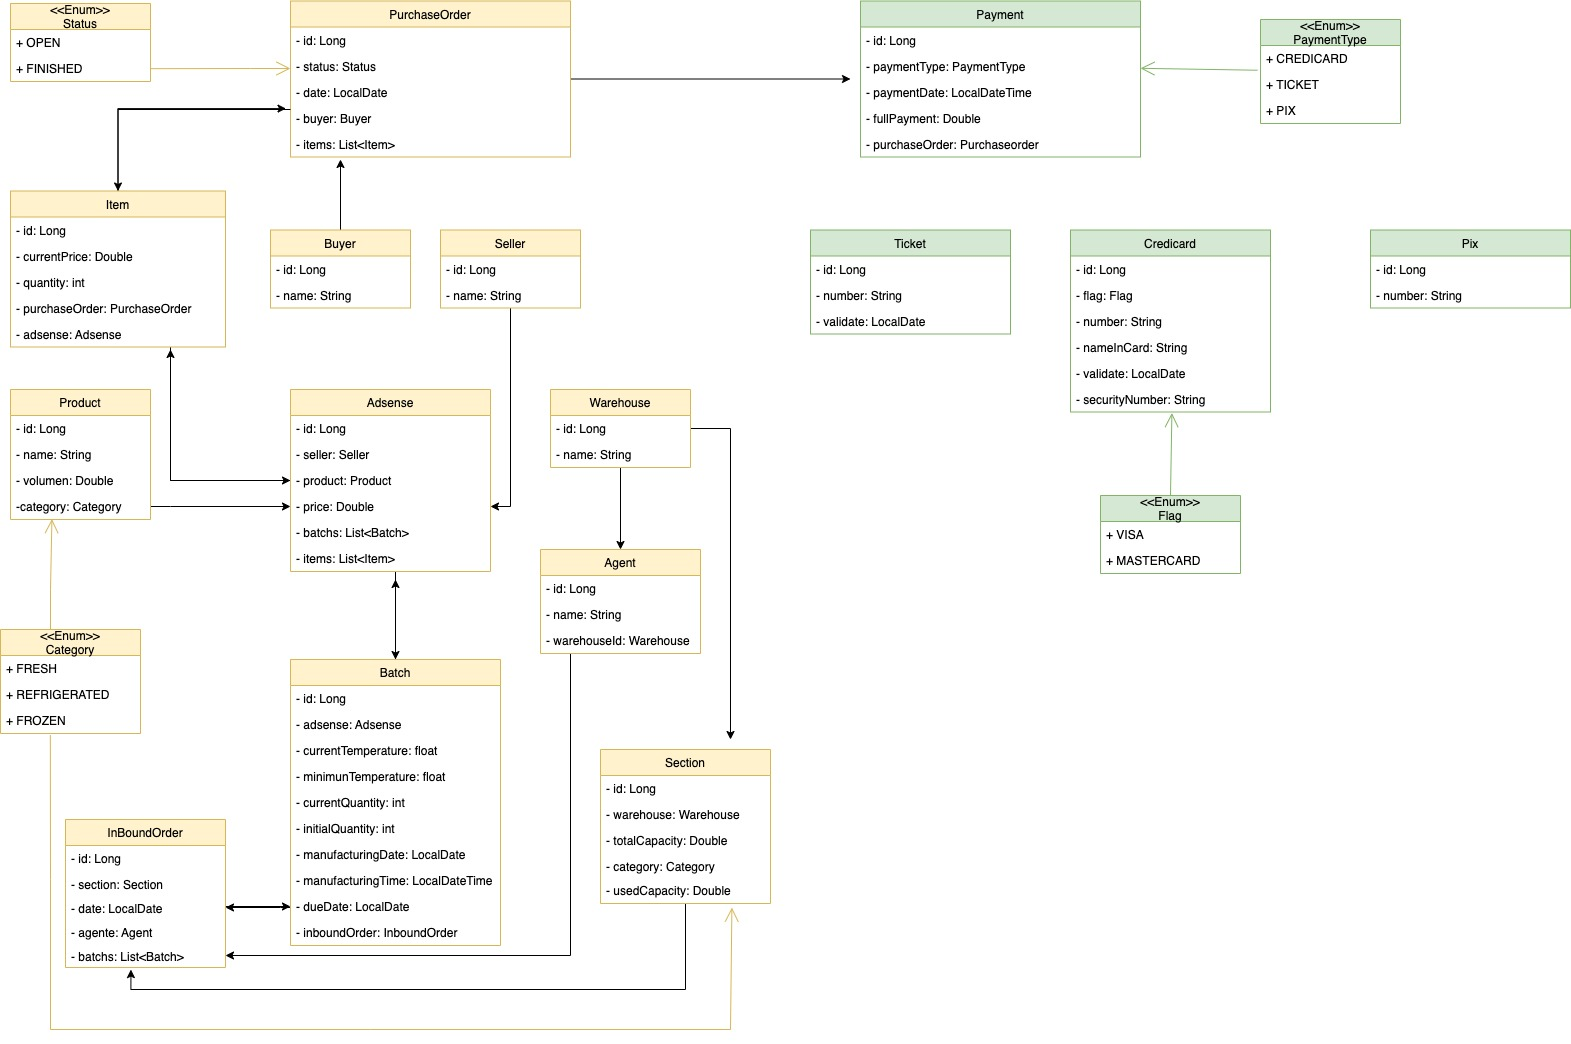
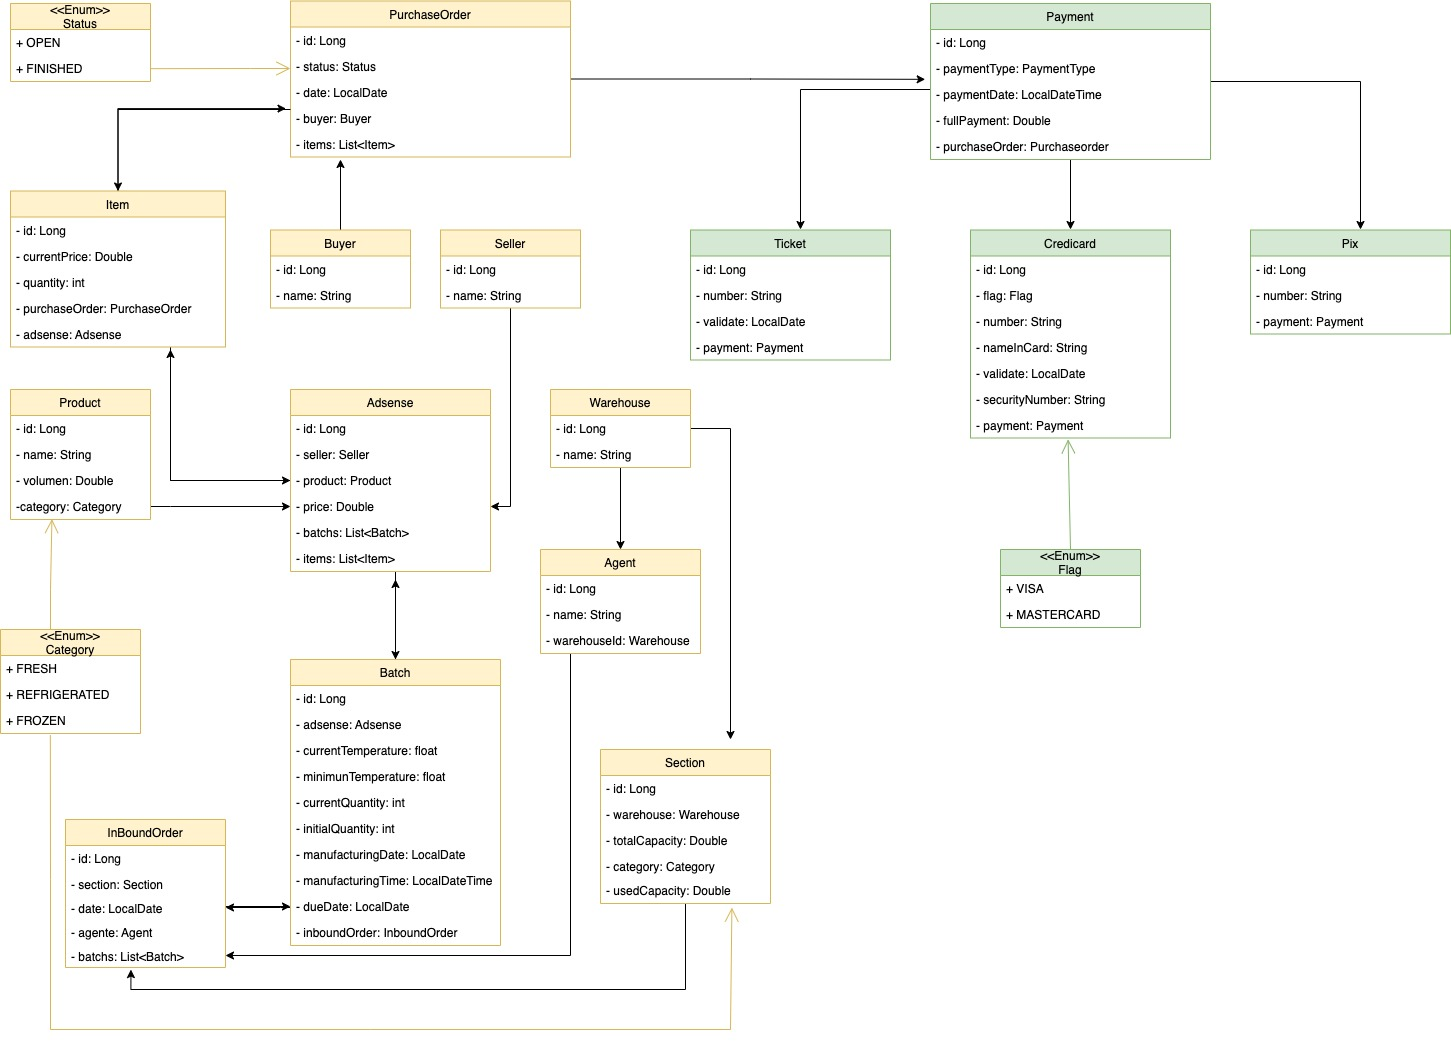
adicionando relacionamento entre pagamentos

diff --git a/src/main/java/br/com/meli/desafio_final/service/implementation/PaymentService.java b/src/main/java/br/com/meli/desafio_final/service/implementation/PaymentService.java
@@ -3,7 +3,6 @@ package br.com.meli.desafio_final.service.implementation;
 import br.com.meli.desafio_final.exception.BadRequest;
 import br.com.meli.desafio_final.exception.NotFound;
 import br.com.meli.desafio_final.model.entity.*;
-import br.com.meli.desafio_final.model.enums.PaymentType;
 import br.com.meli.desafio_final.model.enums.Status;
 import br.com.meli.desafio_final.repository.PaymentRepository;
 import br.com.meli.desafio_final.service.IPaymentService;
@@ -43,57 +42,50 @@ public class PaymentService implements IPaymentService {
         });
     }
 
+
     @Override
-    public Payment saveCredicard(Credicard credicard, Long idOrder) {
+    public Payment paymenteByCredicard(Credicard credicard, Long idOrder) {
         PurchaseOrder purchaseOrderFound = purchaseOrderService.findById(idOrder);
-        if (credicardService.validateCredicard(credicard)) {
-            if (purchaseOrderFound.getStatus().equals(Status.OPEN)) {
+        if (purchaseOrderFound.getStatus().equals(Status.OPEN)) {
+            Payment newPayment = paymentRepository.save(Payment.builder().paymentDate(LocalDateTime.now())
+                    .fullPayment(purchaseOrderFound.getTotalPrice()).purchaseOrder(purchaseOrderFound).build());
+            credicard.setPayment(newPayment);
+            if (credicardService.validateCredicard(credicard)) {
                 purchaseOrderService.updateToFinished(purchaseOrderFound.getId());
-                return paymentRepository.save(Payment.builder()
-                        .paymentType(PaymentType.CREDICARD)
-                        .paymentDate(LocalDateTime.now())
-                        .fullPayment(purchaseOrderFound.getTotalPrice())
-                        .purchaseOrder(purchaseOrderFound)
-                        .build());
+                return newPayment;
             }
-            throw new BadRequest("Carrinho já finalizado.");
         }
-        throw new BadRequest("Pagamento não finalizado!");
+        throw new BadRequest("Carrinho já finalizado.");
     }
 
     @Override
-    public Payment savePix(Pix pix, Long idOrder) {
+    public Payment paymentByPix(Pix pix, Long idOrder) {
         PurchaseOrder purchaseOrderFound = purchaseOrderService.findById(idOrder);
-        if (pixService.validatePix(pix)) {
-            if (purchaseOrderFound.getStatus().equals(Status.OPEN)) {
+        if (purchaseOrderFound.getStatus().equals(Status.OPEN)) {
+            Payment newPayment = paymentRepository.save(Payment.builder().paymentDate(LocalDateTime.now())
+                    .fullPayment(purchaseOrderFound.getTotalPrice()).purchaseOrder(purchaseOrderFound).build());
+            pix.setPayment(newPayment);
+            if (pixService.validatePix(pix)) {
                 purchaseOrderService.updateToFinished(purchaseOrderFound.getId());
-                return paymentRepository.save(Payment.builder()
-                        .paymentType(PaymentType.PIX)
-                        .paymentDate(LocalDateTime.now())
-                        .fullPayment(purchaseOrderFound.getTotalPrice())
-                        .purchaseOrder(purchaseOrderFound)
-                        .build());
+                return newPayment;
             }
-            throw new BadRequest("Carrinho já finalizado");
         }
-        throw new BadRequest("Pagamento não finalizado!");
+        throw new BadRequest("Carrinho já finalizado.");
     }
 
     @Override
-    public Payment saveTicket(Ticket ticket, Long idOrder) {
+    public Payment paymentByTicket(Ticket ticket, Long idOrder) {
         PurchaseOrder purchaseOrderFound = purchaseOrderService.findById(idOrder);
-        if (ticketService.validateTicket(ticket)) {
-            if (purchaseOrderFound.getStatus().equals(Status.OPEN)) {
+        if (purchaseOrderFound.getStatus().equals(Status.OPEN)) {
+            Payment newPayment = paymentRepository.save(Payment.builder().paymentDate(LocalDateTime.now())
+                    .fullPayment(purchaseOrderFound.getTotalPrice()).purchaseOrder(purchaseOrderFound).build());
+            ticket.setPayment(newPayment);
+            if (ticketService.validateTicket(ticket)) {
                 purchaseOrderService.updateToFinished(purchaseOrderFound.getId());
-                return paymentRepository.save(Payment.builder()
-                        .paymentType(PaymentType.TICKET)
-                        .paymentDate(LocalDateTime.now())
-                        .fullPayment(purchaseOrderFound.getTotalPrice())
-                        .purchaseOrder(purchaseOrderFound)
-                        .build());
+                return newPayment;
             }
-            throw new BadRequest("Carrinho já finalizado");
         }
-        throw new BadRequest("Pagamento não finalizado!");
+        throw new BadRequest("Carrinho já finalizado");
     }
+
 }

diff --git a/src/main/java/br/com/meli/desafio_final/controller/PaymentController.java b/src/main/java/br/com/meli/desafio_final/controller/PaymentController.java
@@ -30,18 +30,18 @@ public class PaymentController {
     }
 
     @PostMapping("/credicard/{idOrder}")
-    public ResponseEntity<Payment> saveCredicard(@RequestBody Credicard credicard, @PathVariable Long idOrder) {
-        return ResponseEntity.status(HttpStatus.OK).body(paymentService.saveCredicard(credicard, idOrder));
+    public ResponseEntity<Payment> paymenteByCredicard(@RequestBody Credicard credicard, @PathVariable Long idOrder) {
+        return ResponseEntity.status(HttpStatus.OK).body(paymentService.paymenteByCredicard(credicard, idOrder));
     }
 
     @PostMapping("/pix/{idOrder}")
-    public ResponseEntity<Payment> savePix(@RequestBody Pix pix, @PathVariable Long idOrder) {
-        return ResponseEntity.status(HttpStatus.OK).body(paymentService.savePix(pix, idOrder));
+    public ResponseEntity<Payment> paymentByPix(@RequestBody Pix pix, @PathVariable Long idOrder) {
+        return ResponseEntity.status(HttpStatus.OK).body(paymentService.paymentByPix(pix, idOrder));
     }
 
     @PostMapping("/ticket/{idOrder}")
-    public ResponseEntity<Payment> saveTicket(@RequestBody Ticket ticket, @PathVariable Long idOrder) {
-        return ResponseEntity.status(HttpStatus.OK).body(paymentService.saveTicket(ticket, idOrder));
+    public ResponseEntity<Payment> paymentByTicket(@RequestBody Ticket ticket, @PathVariable Long idOrder) {
+        return ResponseEntity.status(HttpStatus.OK).body(paymentService.paymentByTicket(ticket, idOrder));
     }
 
 }

diff --git a/src/main/java/br/com/meli/desafio_final/service/IPaymentService.java b/src/main/java/br/com/meli/desafio_final/service/IPaymentService.java
@@ -1,9 +1,6 @@
 package br.com.meli.desafio_final.service;
 
-import br.com.meli.desafio_final.model.entity.Credicard;
-import br.com.meli.desafio_final.model.entity.Payment;
-import br.com.meli.desafio_final.model.entity.Pix;
-import br.com.meli.desafio_final.model.entity.Ticket;
+import br.com.meli.desafio_final.model.entity.*;
 
 import java.util.List;
 
@@ -13,10 +10,10 @@ public interface IPaymentService {
 
     Payment findBydId(Long id);
 
-    Payment saveCredicard(Credicard credicard, Long idOrder);
+    Payment paymenteByCredicard(Credicard credicard, Long idOrder);
 
-    Payment savePix(Pix pix, Long idOrder);
+    Payment paymentByPix(Pix pix, Long idOrder);
 
-    Payment saveTicket(Ticket ticket, Long idOrder);
+    Payment paymentByTicket(Ticket ticket, Long idOrder);
 
 }

diff --git a/src/main/java/br/com/meli/desafio_final/model/entity/Ticket.java b/src/main/java/br/com/meli/desafio_final/model/entity/Ticket.java
@@ -2,10 +2,7 @@ package br.com.meli.desafio_final.model.entity;
 
 import lombok.*;
 
-import javax.persistence.Entity;
-import javax.persistence.GeneratedValue;
-import javax.persistence.GenerationType;
-import javax.persistence.Id;
+import javax.persistence.*;
 import java.time.LocalDate;
 
 @Entity
@@ -23,5 +20,9 @@ public class Ticket {
     private String number;
 
     private LocalDate validate;
+
+    @OneToOne(cascade = CascadeType.PERSIST)
+    @JoinColumn(name = "payment_id")
+    private Payment payment;
 
 }

diff --git a/src/main/java/br/com/meli/desafio_final/model/entity/Pix.java b/src/main/java/br/com/meli/desafio_final/model/entity/Pix.java
@@ -2,10 +2,7 @@ package br.com.meli.desafio_final.model.entity;
 
 import lombok.*;
 
-import javax.persistence.Entity;
-import javax.persistence.GeneratedValue;
-import javax.persistence.GenerationType;
-import javax.persistence.Id;
+import javax.persistence.*;
 
 @Entity
 @Setter
@@ -20,5 +17,9 @@ public class Pix {
     private Long id;
 
     private String number;
+
+    @OneToOne(cascade = CascadeType.PERSIST)
+    @JoinColumn(name = "payment_id")
+    private Payment payment;
 
 }

diff --git a/src/main/java/br/com/meli/desafio_final/model/entity/Payment.java b/src/main/java/br/com/meli/desafio_final/model/entity/Payment.java
@@ -1,6 +1,5 @@
 package br.com.meli.desafio_final.model.entity;
 
-import br.com.meli.desafio_final.model.enums.PaymentType;
 import com.fasterxml.jackson.annotation.JsonIgnoreProperties;
 import lombok.*;
 
@@ -18,9 +17,6 @@ public class Payment {
     @Id
     @GeneratedValue(strategy = GenerationType.IDENTITY)
     private Long id;
-
-    @Enumerated(EnumType.STRING)
-    private PaymentType paymentType;
 
     private LocalDateTime paymentDate;
 

diff --git a/src/main/java/br/com/meli/desafio_final/model/entity/Credicard.java b/src/main/java/br/com/meli/desafio_final/model/entity/Credicard.java
@@ -29,4 +29,8 @@ public class Credicard {
 
     private String securityNumber;
 
+    @OneToOne(cascade = CascadeType.PERSIST)
+    @JoinColumn(name = "payment_id")
+    private Payment payment;
+
 }
